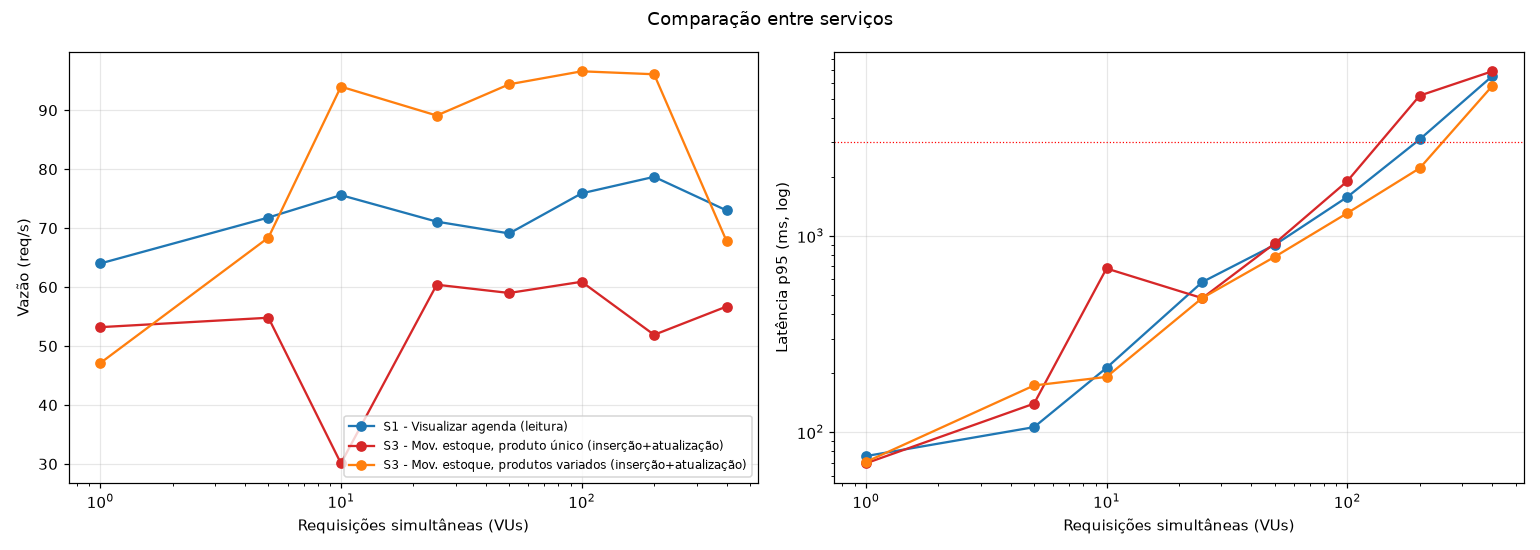
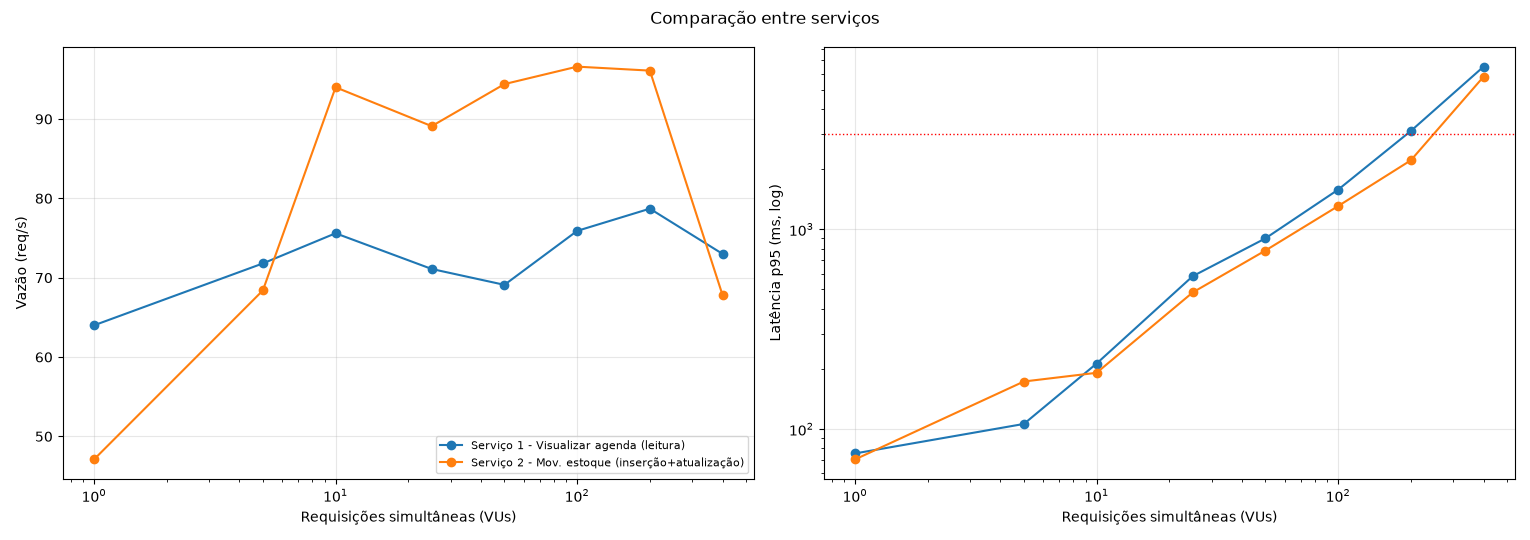
Fase E: mantém apenas o solicitado (Serviço 2 com um único cenário)

diff --git a/fase_e/k6/s2_movimentacao_estoque.js b/fase_e/k6/s2_movimentacao_estoque.js
@@ -1,21 +1,18 @@
-// Serviço 3 - Registrar movimentação de estoque (INSERÇÃO + ATUALIZAÇÃO)
+// Serviço 2 - Registrar movimentação de estoque (LEITURA + INSERÇÃO + ATUALIZAÇÃO)
 // POST /api/estoque/movimentacoes -> INSERT movimentacao_estoque; triggers fazem
 // SELECT ... FOR UPDATE e UPDATE produto.quantidade; depois lê vw_produtos_estoque_baixo.
-//
-// MODO=quente  -> todas as requisições no mesmo produto (ex.: seringa, usada em todo atendimento)
-// MODO=espalhado -> produto sorteado entre os 54 não controlados (menos disputa de lock)
+// O produto é sorteado entre os 54 não controlados.
 import http from 'k6/http';
 import { check } from 'k6';
 import { BASE_URL, opcoesBase } from './comum.js';
 
 export const options = opcoesBase;
 
-const MODO = __ENV.MODO || 'quente';
 // não controlados: 1, 2, 3, 5 (carga inicial) e 6..55 (massa de dados)
 const PRODUTOS = [1, 2, 3, 5, ...Array.from({ length: 50 }, (_, i) => i + 6)];
 
 export default function () {
-  const produto = MODO === 'quente' ? 5 : PRODUTOS[Math.floor(Math.random() * PRODUTOS.length)];
+  const produto = PRODUTOS[Math.floor(Math.random() * PRODUTOS.length)];
   const entrada = Math.random() < 0.3;
   const body = JSON.stringify(entrada
     ? { produto_id: produto, usuario_id: 1, tipo: 'ENTRADA', quantidade: 10, motivo: 'Reposição', fornecedor_id: 1 }

diff --git a/fase_e/api/src/routes/estoque.js b/fase_e/api/src/routes/estoque.js
@@ -1,4 +1,4 @@
-// Serviço 3 - Registrar movimentação de estoque (UC-06 / RF-06) - INSERÇÃO + ATUALIZAÇÃO
+// Serviço 2 - Registrar movimentação de estoque (UC-06 / RF-06) - INSERÇÃO + ATUALIZAÇÃO
 // POST /api/estoque/movimentacoes
 //   { produto_id, usuario_id, tipo: "ENTRADA"|"SAIDA", quantidade, motivo, fornecedor_id?, prontuario_id? }
 // Os triggers trg_mov_estoque_bi (SELECT ... FOR UPDATE + RN-05 + saldo) e

diff --git a/fase_e/README.md b/fase_e/README.md
@@ -85,42 +85,38 @@ Foram selecionados dois serviços internos centrais do sistema — um de **leitu
     * [`fase_e/api/src/server.js`](api/src/server.js) — servidor Express da API `vida-animal-api`
     * [`fase_c/schema_fisico.sql`](../fase_c/schema_fisico.sql) — tabelas `movimentacao_estoque` e `produto`, *triggers* `trg_mov_estoque_bi` e `trg_mov_estoque_ai`, e view `vw_produtos_estoque_baixo`
   * **Arquivos com o código fonte de medição do SLA:**
-    * [`fase_e/k6/s3_movimentacao_estoque.js`](k6/s3_movimentacao_estoque.js) — script de teste de carga do Serviço 2 (suporta `MODO=quente` para único produto e `MODO=espalhado` para 54 produtos)
+    * [`fase_e/k6/s2_movimentacao_estoque.js`](k6/s2_movimentacao_estoque.js) — script de teste de carga do Serviço 2 (movimentações de entrada e saída sobre 54 produtos)
     * [`fase_e/k6/comum.js`](k6/comum.js) — perfil de degraus de concorrência e *thresholds* do SLA
   * **Data da medição:** 08/11/2026
   * **Descrição das configurações:**
     * Mesma configuração do Serviço 1 (VPS Oracle Cloud Ubuntu Linux com 2 vCPUs e 1 GB de RAM, Node.js `v22` com pool de 10 conexões, MySQL Server `8.4` InnoDB e Grafana k6).
-    * Executado em dois cenários: **Cenário 2A (produto único / *hot row*)** e **Cenário 2B (54 produtos variados)**.
   * **Testes de carga (SLA): latência, vazão e concorrência (limite de requisições simultâneas)**
-    * **Cenário 2A — Produto único (*hot row*):**
-      * **Latência:** média de `18,28 ms` (`p95 = 69,32 ms`) com 1 VU, chegando a `1.668,17 ms` (`p95 = 1.900,24 ms`) em 100 VUs e `5.868,26 ms` (`p95 = 6.900,32 ms`) em 400 VUs.
-      * **Vazão por intervalo de tempo:** `1s`: **50,1 req/s** (pico `75,0`) · `5s`: **50,3 req/s** (pico `64,2`) · `10s`: **49,6 req/s** (pico `59,8`) · `30s`: **50,2 req/s** (pico `53,3`) · `1min`: **48,8 req/s** (máxima por degrau: **60,9 req/s**).
-      * **Concorrência (limite de requisições simultâneas):** satura em **25 VUs** (`60,4 req/s`) e respeita o SLA (`p95 <= 3.000 ms`) até **100 VUs** (`p95 = 1.900,24 ms`). Em **200 VUs viola o SLA** (`p95 = 5.187,13 ms`).
-    * **Cenário 2B — 54 produtos variados (baixa disputa de lock por linha):**
-      * **Latência:** média de `20,95 ms` (`p95 = 70,44 ms`) com 1 VU, `105,11 ms` (`p95 = 191,15 ms`) em 10 VUs, `2.057,55 ms` (`p95 = 2.214,00 ms`) em 200 VUs e `4.243,03 ms` (`p95 = 5.803,92 ms`) em 400 VUs.
-      * **Vazão por intervalo de tempo:** `1s`: **78,2 req/s** (pico `112,0`) · `5s`: **78,2 req/s** (pico `101,6`) · `10s`: **78,2 req/s** (pico `94,8`) · `30s`: **79,6 req/s** (pico `93,0`) · `1min`: **72,8 req/s** (máxima por degrau: **96,6 req/s** — **59% superior** ao cenário de produto único).
-      * **Concorrência (limite de requisições simultâneas):** satura em **10 VUs** (`94,0 req/s`, limite do pool de conexões) e respeita o SLA (`p95 <= 3.000 ms`) até **200 VUs** (`p95 = 2.214,00 ms` — **dobro** do limite de concorrência do Cenário 2A), violando apenas em **400 VUs** (`p95 = 5.803,92 ms`).
+    * **Latência (tempo de resposta médio e percentis):** média de `20,95 ms` (`p95 = 70,44 ms`) com 1 VU, evoluindo até `1.022,65 ms` (`p95 = 1.306,35 ms`) em 100 VUs, `2.057,55 ms` (`p95 = 2.214,00 ms`) em 200 VUs e `4.243,03 ms` (`p95 = 5.803,92 ms`) em 400 VUs.
+    * **Vazão (quantidade média de requisições por intervalo de tempo):**
+      * Intervalo de `1s`: média de **78,2 req/s** (pico de `112,0 req/s`)
+      * Intervalo de `5s`: média de **78,2 req/s** (pico de `101,6 req/s`)
+      * Intervalo de `10s`: média de **78,2 req/s** (pico de `94,8 req/s`)
+      * Intervalo de `30s`: média de **79,6 req/s** (pico de `93,0 req/s`)
+      * Intervalo de `1min`: média de **72,8 req/s** (pico de `96,6 req/s`, máxima por degrau de concorrência)
+    * **Concorrência (limite de requisições simultâneas):** a vazão satura a partir de **10 VUs** (`94,0 req/s`, limite do pool de conexões), com pico de **96,6 req/s**. O **limite de requisições simultâneas dentro do SLA (RNF-02: `p95 <= 3.000 ms`) é de 200 VUs** (`p95 = 2.214,00 ms`); em **400 VUs** o `p95` atinge `5.803,92 ms`, ultrapassando o limite de 3 s (com `0,00%` de erros HTTP em todos os níveis).
 
-    | Concorrência (VUs) | 2A Vazão — 1 produto (`req/s`) | 2A Lat. média (`ms`) | 2A Lat. `p95` (`ms`) | 2A CPU Node / MySQL | 2B Vazão — 54 produtos (`req/s`) | 2B Lat. média (`ms`) | 2B Lat. `p95` (`ms`) | 2B CPU Node / MySQL |
-    | :-: | :-: | :-: | :-: | :-: | :-: | :-: | :-: | :-: |
-    | **1** | 53,2 | 18,28 | **69,32** | 33% / 22% | 47,1 | 20,95 | **70,44** | 34% / 23% |
-    | **5** | 54,8 | 89,68 | **139,72** | 45% / 35% | 68,4 | 71,10 | **172,91** | 70% / 37% |
-    | **10** | 30,1 | 331,47 | **682,29** | 20% / 28% | 94,0 | 105,11 | **191,15** | 61% / 52% |
-    | **25** | 60,4 | 412,88 | **481,71** | 31% / 37% | 89,1 | 278,47 | **482,81** | 76% / 40% |
-    | **50** | 59,0 | 846,06 | **915,95** | 28% / 32% | 94,4 | 524,74 | **782,55** | 58% / 54% |
-    | **100** | **60,9** | 1.668,17 | **1.900,24** ✅ | 30% / 30% | **96,6** | 1.022,65 | **1.306,35** ✅ | 52% / 58% |
-    | **200** | 51,9 | 3.969,22 | **5.187,13** ❌ | 32% / 31% | 96,1 | 2.057,55 | **2.214,00** ✅ | 55% / 56% |
-    | **400** | 56,7 | 5.868,26 | **6.900,32** ❌ | 32% / 38% | 67,8 | 4.243,03 | **5.803,92** ❌ | 58% / 43% |
+    | Concorrência (VUs) | Vazão (`req/s`) | Latência média (`ms`) | `p95` (`ms`) | Erros | CPU API Node (`%`) | CPU MySQL (`%`) |
+    | :-: | :-: | :-: | :-: | :-: | :-: | :-: |
+    | **1** | 47,1 | 20,95 | **70,44** | 0,00% | 34% | 23% |
+    | **5** | 68,4 | 71,10 | **172,91** | 0,00% | 70% | 37% |
+    | **10** | 94,0 | 105,11 | **191,15** | 0,00% | 61% | 52% |
+    | **25** | 89,1 | 278,47 | **482,81** | 0,00% | 76% | 40% |
+    | **50** | 94,4 | 524,74 | **782,55** | 0,00% | 58% | 54% |
+    | **100** | **96,6** | 1.022,65 | **1.306,35** ✅ | 0,00% | 52% | 58% |
+    | **200** | 96,1 | 2.057,55 | **2.214,00** ✅ | 0,00% | 55% | 56% |
+    | **400** | 67,8 | 4.243,03 | **5.803,92** ❌ | 0,00% | 58% | 43% |
 
-    ![Evolução temporal do Serviço 2 (produto único) na VPS OCI](graficos/s3_estoque_quente_evolucao.png)
-    ![Vazão por intervalo de tempo do Serviço 2 (produto único)](graficos/s3_estoque_quente_vazao_janelas.png)
-    ![Latência e vazão por concorrência do Serviço 2 (produto único)](graficos/s3_estoque_quente_por_nivel.png)
-    ![Evolução temporal do Serviço 2 (54 produtos) na VPS OCI](graficos/s3_estoque_espalhado_evolucao.png)
-    ![Vazão por intervalo de tempo do Serviço 2 (54 produtos)](graficos/s3_estoque_espalhado_vazao_janelas.png)
-    ![Latência e vazão por concorrência do Serviço 2 (54 produtos)](graficos/s3_estoque_espalhado_por_nivel.png)
+    ![Evolução temporal do Serviço 2 na VPS OCI](graficos/s2_estoque_evolucao.png)
+    ![Vazão por intervalo de tempo do Serviço 2](graficos/s2_estoque_vazao_janelas.png)
+    ![Latência e vazão por nível de concorrência do Serviço 2](graficos/s2_estoque_por_nivel.png)
 
   * **LEVANTAMENTO DE HIPÓTESES dos potenciais gargalos do sistema que influenciam esta funcionalidade:**
-    1. **Serialização por trava exclusiva de linha (*row-level X-lock* no InnoDB) nos *triggers* `trg_mov_estoque_bi` (`SELECT ... FOR UPDATE`) e `trg_mov_estoque_ai` (`UPDATE produto`):** toda inserção em `movimentacao_estoque` bloqueia exclusivamente o registro correspondente em `produto` até o `COMMIT`. No Cenário 2A, nota-se que a CPU fica ociosa (**apenas ~30% no Node e ~30%–37% no MySQL**), provando que as transações ficam paradas esperando liberação de lock + *fsync* de disco em vez de CPU. Quando a carga é espalhada entre 54 produtos (Cenário 2B), a vazão sobe **59%** (de 60,9 para 96,6 req/s) e o limite de concorrência dentro do SLA dobra de **100 para 200 VUs**.
+    1. **Serialização por trava exclusiva de linha (*row-level X-lock* no InnoDB) nos *triggers* `trg_mov_estoque_bi` (`SELECT ... FOR UPDATE`) e `trg_mov_estoque_ai` (`UPDATE produto`):** toda inserção em `movimentacao_estoque` bloqueia exclusivamente o registro correspondente em `produto` até o `COMMIT`, de modo que movimentações simultâneas sobre o mesmo produto são executadas em fila.
     2. **Retenção prolongada do lock exclusivo durante a leitura de `vw_produtos_estoque_baixo` dentro da mesma transação:** em [`estoque.js`](api/src/routes/estoque.js), após o `INSERT` (que já adquiriu o `X-lock` sobre `produto`), a aplicação faz um segundo comando SQL (`SELECT ... LEFT JOIN vw_produtos_estoque_baixo`) antes de executar o `COMMIT`. Esse *round-trip* adicional mantém a linha bloqueada por mais tempo, reduzindo a vazão máxima de atualizações sobre um mesmo item.
     3. **Latência de I/O do volume de bloco da VPS OCI no `COMMIT` síncrono (`innodb_flush_log_at_trx_commit = 1`) somada ao limite do pool (`DB_POOL = 10`):** cada transação de escrita exige *flush* do redo log no armazenamento de rede da OCI; quando `VUs > 10`, as requisições aguardam em fila por uma das 10 conexões do pool antes mesmo de chegar ao SGBD.
 
@@ -128,10 +124,9 @@ Foram selecionados dois serviços internos centrais do sistema — um de **leitu
 
 ### 13.2. Comparação Consolidada entre os Serviços (VPS Oracle Cloud)
 
-| Serviço / Cenário | Tipo de Operação | Latência média (1 VU) | Vazão máxima (`req/s`) | Vazão média (`1s` / `5s` / `10s` / `30s` / `1min`) | Ponto de saturação | Limite de concorrência no SLA (`p95 <= 3s`) | Taxa de erros |
+| Serviço | Tipo de Operação | Latência média (1 VU) | Vazão máxima (`req/s`) | Vazão média (`1s` / `5s` / `10s` / `30s` / `1min`) | Ponto de saturação | Limite de concorrência no SLA (`p95 <= 3s`) | Taxa de erros |
 |---|---|:-:|:-:|:-:|:-:|:-:|:-:|
 | **Serviço 1 — Visualizar Agenda** | Leitura | `16,97 ms` | **78,7 req/s** | `69,5 / 69,5 / 69,0 / 68,8 / 65,3 req/s` | 5–10 VUs | **100 VUs** (`p95 = 1.578 ms`) | `0,00%` |
-| **Serviço 2A — Estoque (1 produto / *hot row*)** | Leitura / Inserção / Atualização | `18,28 ms` | **60,9 req/s** | `50,1 / 50,3 / 49,6 / 50,2 / 48,8 req/s` | 25 VUs | **100 VUs** (`p95 = 1.900 ms`) | `0,00%` |
-| **Serviço 2B — Estoque (54 produtos)** | Leitura / Inserção / Atualização | `20,95 ms` | **96,6 req/s** | `78,2 / 78,2 / 78,2 / 79,6 / 72,8 req/s` | 10 VUs | **200 VUs** (`p95 = 2.214 ms`) | `0,00%` |
+| **Serviço 2 — Registrar Movimentação de Estoque** | Leitura / Inserção / Atualização | `20,95 ms` | **96,6 req/s** | `78,2 / 78,2 / 78,2 / 79,6 / 72,8 req/s` | 10 VUs | **200 VUs** (`p95 = 2.214 ms`) | `0,00%` |
 
 ![Comparação consolidada entre os serviços na VPS Oracle Cloud](graficos/comparacao_servicos.png)
